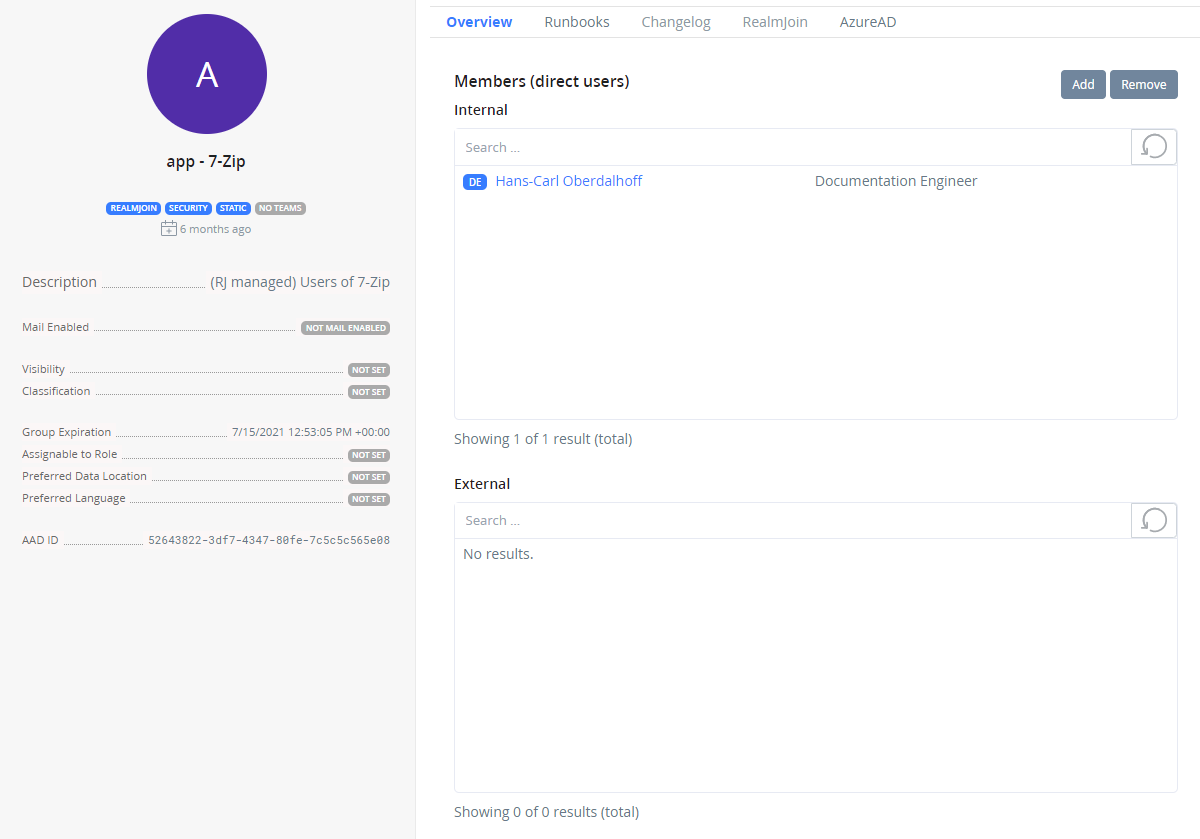
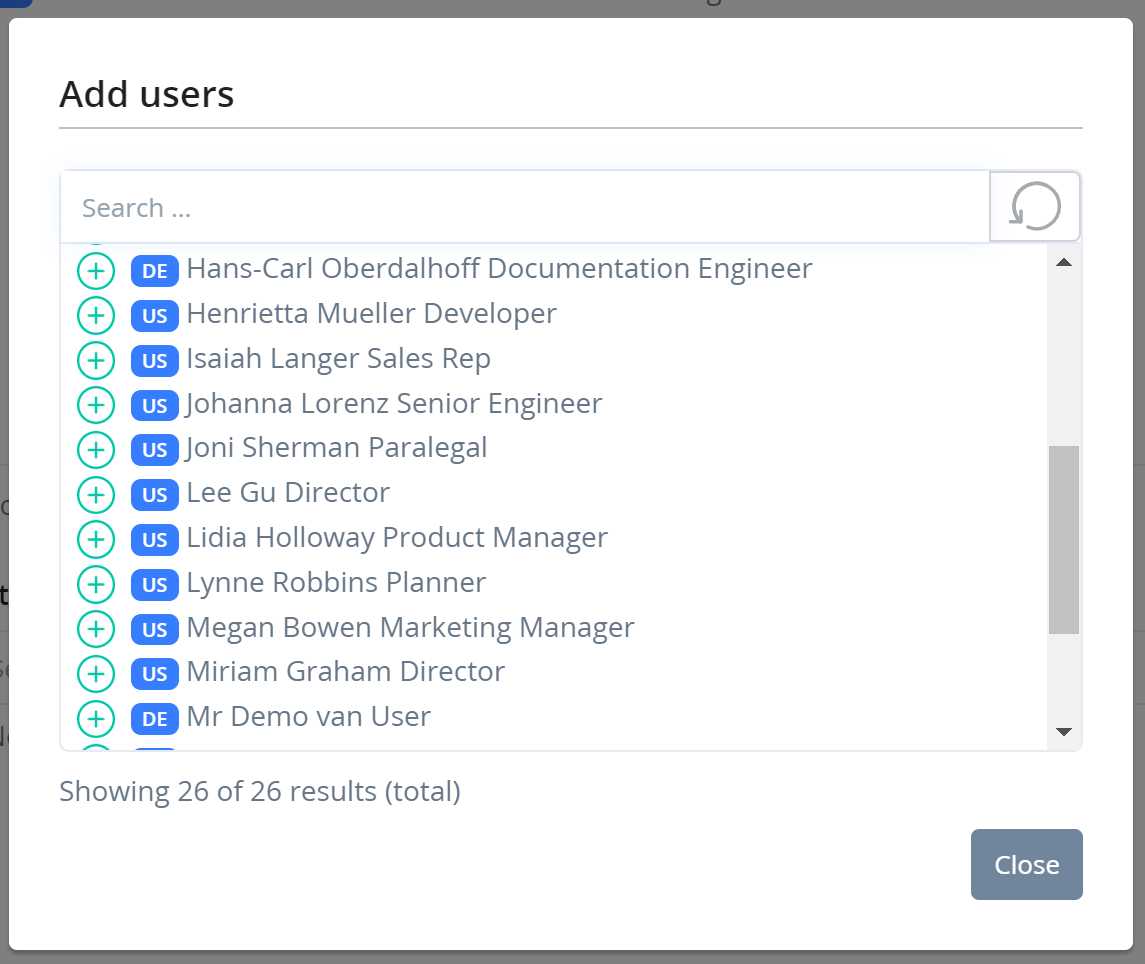
GitBook: [#45] No subject

diff --git a/page-1/group-list/group-details.md b/page-1/group-list/group-details.md
@@ -1,5 +1,78 @@
 # Group Details
 
-![Application management group](<../../.gitbook/assets/image (7).png>)
+![Application management group](<../../.gitbook/assets/image (7) (1).png>)
 
-![Team](<../../.gitbook/assets/image (1) (1).png>)
+This page shows you details regarding a single group.
+
+### Tabs
+
+The right side of the screen shows the contents of the current tab, which can be&#x20;
+
+* "Overview" with more information about the object
+* "[Runbooks](group-details.md#runbooks)" showing available runbooks - as the name implies
+* Raw [data sources](group-details.md#data-sources), like AzureAD, Sign in logs etc display in JSON. Only available for RealmJoin administrators.
+
+### Object Types
+
+The category "groups" includes:
+
+* AzureAD static and dynamic groups
+* Exchange Online mail-enabled groups and distribution groups
+* Microsoft Office365 groups and teams
+
+### **Object Properties**
+
+Every group details page will show an overview of the core properties like
+
+* Name
+* AzureAD Object ID
+* Additional properties&#x20;
+
+on the left side of the screen in a glanceable way. This part will not scroll and be always visible in any tab.
+
+### Status information
+
+The core properties include some glanceable information about the status of a user object:
+
+* **Unified** - A Office365 group or Team group
+* **Security** - An AzureAD (non-Office365) group
+* **Mail enabled** - This group can receive eMail
+* **Teams** - This group represents a Team
+* **Static** - Members are assigned statically (manually) to a group
+* **Dynamic** - Members are chosen via a membership rule, typically to group devices
+
+Be aware of the different types of groups accross AzureAD and Exchange Online. A group is either a "**Security**" or a "**Unified**" group. Also, some groups like "**Security**" groups that are "**Mail enabled**" (like Distribution groups) can only be managed via Exchange Online, not AzureAD.
+
+### Members
+
+RealmJoin Portal will show you the current members of a group. It will show internal and external ("Guest") users separately. You can search/filter the members of a group using the on-screen search fields.
+
+On AzureAD groups ("Non-mail enabled security" and "Unified") you can use RealmJoin Portal to add or remove members - if you have the appropriate permissions.&#x20;
+
+Please use a [runbook ](../../runbooks/)to change owners of a group or to change memberships to Exchange Online groups, like Distribution Groups.
+
+![Members of a group](<../../.gitbook/assets/image (1) (1).png>)
+
+#### Adding Members
+
+Using the "**Add**" button will show a dialogue where you can search for users to add to the group. You can search for users via Name or User Principal Name / eMail address.
+
+![Adding Members](<../../.gitbook/assets/image (7).png>)
+
+Press "+" to add a member to the group. The resulting membership will take a short time and not be immedaitely visible.
+
+#### Removing Members
+
+Using the "**Remove**" button will not show a new dialogue but add a "x" icon in front of existing members. You can still search/filter for members via Name or User Principal Name / eMail address while this is active.
+
+![Removing Members](<../../.gitbook/assets/image (3).png>)
+
+Press the "x" icon to remove a member. The resulting change will take a short time and not be immedaitely visible.
+
+### Tabs
+
+The right side of the screen shows the contents of the current tab, which can be&#x20;
+
+* "Overview" with more information about the object
+* "[Runbooks](group-details.md#runbooks)" showing available runbooks - as the name implies
+* Raw [data sources](group-details.md#data-sources), like AzureAD, Sign in logs etc display in JSON. Only available for RealmJoin administrators.

diff --git a/onboarding/connecting-azure-automation.md b/onboarding/connecting-azure-automation.md
@@ -26,7 +26,7 @@ Choose or create an Azure Resource Group in your Azure Subscription, e.g. `rjrb-
 
 [https://portal.azure.com/#create/Microsoft.ResourceGroup](https://portal.azure.com/#create/Microsoft.ResourceGroup)&#x20;
 
-![Create an Azure Resource Group](<../.gitbook/assets/image (7) (1).png>)
+![Create an Azure Resource Group](<../.gitbook/assets/image (7) (1) (1).png>)
 
 Please note down the Resource Group's name as it will be needed later.
 
@@ -87,7 +87,7 @@ The command will return multiple values. Please note down the values for `appId`
 
 You can review the resulting App Registration in AzureAD. It will be named "RealmJoin Runbook Management".
 
-![App Regsitrations in Azure Portal](<../.gitbook/assets/image (3) (1).png>)
+![App Regsitrations in Azure Portal](<../.gitbook/assets/image (3) (1) (1).png>)
 
 ### Entering Info - Part 2
 

diff --git a/page-1/user-list/README.md b/page-1/user-list/README.md
@@ -2,9 +2,11 @@
 
 ![User List View](<../../.gitbook/assets/image (13).png>)
 
+This view offers you a simple way to search or review users in your environment.
+
 ### User Object Types
 
-The category "user object" includes:
+"Users" include:
 
 * AzureAD user objects
 * AzureAD external users, a.k.a. guests
@@ -23,7 +25,7 @@ The user list allows you to search for any user in your organization by
 * City
 * Country
 
-The search support realtime / as-you-type incremental search. The search results will update instantly as you type.
+The search supports realtime / as-you-type incremental search. The search results will update instantly as you type.
 
 You can sort the current search result or the full list by any of the fields, by clicking on the fields name.
 

diff --git a/page-1/device-list/README.md b/page-1/device-list/README.md
@@ -1,3 +1,13 @@
 # Device List
 
-![](<../../.gitbook/assets/image (9).png>)
+![Device List View](<../../.gitbook/assets/image (9).png>)
+
+This view offers you a simple way to search or review devices in your environment.
+
+### Object Types
+
+The category "devices" includes:
+
+* AzureAD joined clients, like modern workplace clients
+* AzureAD registered devices, like user-owned phones and tablets
+* Other devices, like printers used by MS Universal Printing or SurfaceHubs

diff --git a/page-1/device-list/device-details.md b/page-1/device-list/device-details.md
@@ -1,8 +1,10 @@
 # Device Details
 
-![](<../../.gitbook/assets/image (12).png>)
+![Device Details Page](<../../.gitbook/assets/image (12).png>)
 
-![](<../../.gitbook/assets/image (3).png>)
+This page shows you details regarding a single device.
+
+![](<../../.gitbook/assets/image (3) (1).png>)
 
 AAD Joined, TPM2 enabled, Autopilot Device, Company Owned, Created 8 Month ago, last contact 45m ago
 

diff --git a/page-1/user-list/user-details.md b/page-1/user-list/user-details.md
@@ -2,9 +2,11 @@
 
 ![](<../../.gitbook/assets/image (5) (1).png>)
 
+This page will show you detailed information about a single user object.&#x20;
+
 ### User Object Types
 
-This page will show you detailed information about a single user object. The category "user object" includes:
+The category "user object" includes:
 
 * AzureAD user objects
 * AzureAD external users, a.k.a. guests

diff --git a/page-1/group-list/README.md b/page-1/group-list/README.md
@@ -2,6 +2,8 @@
 
 ![Group List View](<../../.gitbook/assets/image (15).png>)
 
+This view offers you a simple way to search or review groups in your environment.
+
 ### Object Types
 
 The category "groups" includes:
